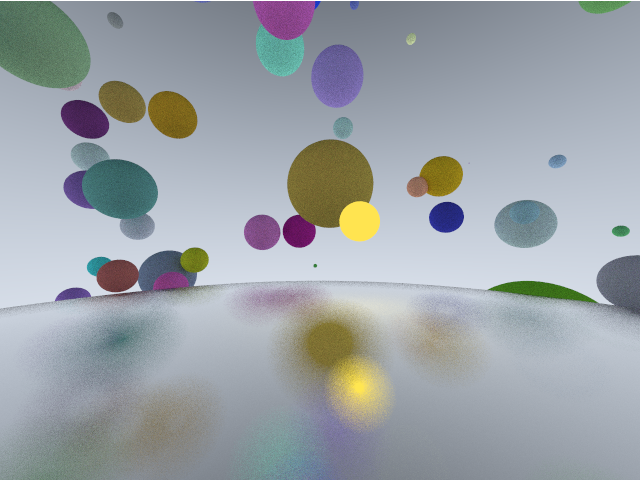
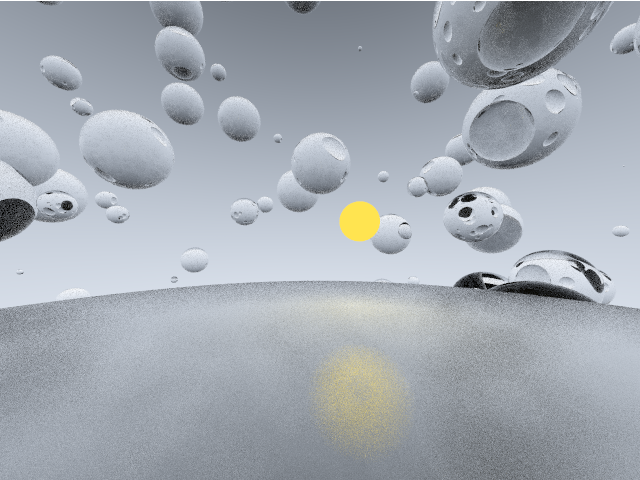
refractive mats

diff --git a/core/refractive_material.go b/core/refractive_material.go
@@ -1,0 +1,44 @@
+package core
+
+import (
+	"math"
+	"math/rand"
+)
+
+type RefractiveMaterial struct {
+	RefractiveIndex float64
+}
+
+func (mat *RefractiveMaterial) Scatter(rayIn *Ray, hitRecord *HitRecord, attenuation *Col3, scatteredRay *Ray) bool {
+
+	ri := mat.RefractiveIndex
+	if hitRecord.FrontFacing {
+		ri = 1.0 / ri
+	}
+	normalizedInputVector := Normalize(rayIn.Direction)
+
+	cos_theta := math.Min(Dot(normalizedInputVector.Negate(), hitRecord.Normal), 1.0)
+	sin_theta := math.Sqrt(1.0 - cos_theta*cos_theta)
+
+	cannot_refract := ri*sin_theta > 1.0
+
+	finalDirection := Vec3{}
+	if cannot_refract || (reflectance(cos_theta, ri) > rand.Float64()) {
+		//must reflect
+		finalDirection = Reflect(&normalizedInputVector, &hitRecord.Normal)
+	} else {
+		//refract
+		finalDirection = Refract(&normalizedInputVector, &hitRecord.Normal, ri)
+	}
+
+	*scatteredRay = NewRay(hitRecord.Hitpoint, finalDirection)
+	*attenuation = Col3{1, 1, 1}
+	return true
+}
+
+func reflectance(cos float64, refIndex float64) float64 {
+	//Schlick's approximation
+	r0 := (1 - refIndex) / (1 + refIndex)
+	r0 = r0 * r0
+	return r0 + (1-r0)*math.Pow((1-cos), 5)
+}

diff --git a/rtCLI/main.go b/rtCLI/main.go
@@ -149,18 +149,19 @@ func main() {
 	fmt.Println("creating a scene with some spheres")
 
 	scene := []core.Hittable{&core.Sphere{core.Vec3{1, .5, -6}, 0.5, &core.DiffuseLightMaterial{core.Col3{1, .8, .1}}},
-		&core.Sphere{core.Vec3{0, -101.5, -1}, 100, &core.MetalMaterial{core.Col3{1, 1, 1}, .1}}}
+		&core.Sphere{core.Vec3{0, -101.5, -1}, 100, &core.MetalMaterial{core.Col3{1, 1, 1}, .2}},
+	}
 
 	for i := 0; i < 300; i++ {
 		newSphere := core.Sphere{core.Vec3{rand.Float64()*100.0 - 50, rand.Float64()*100.0 - 50, rand.Float64()*100.0 - 50}, rand.Float64() * 5.0,
-			&core.DiffuseMaterial{core.RandomVectorByRange(0, 1)}}
+			&core.RefractiveMaterial{1.5}}
 		scene = append(scene, &newSphere)
 	}
 
 	fmt.Println("creating camera and image")
 	const imageWidth int = 640
 	const imageHeight int = 480
-	const samplesPerPixel = 64
+	const samplesPerPixel = 32
 	const maxDepth = 5
 	img := image.NewRGBA(image.Rect(0, 0, imageWidth, imageHeight))
 	cam := core.NewCamera(2, 2.66666666667, 1, core.NewVector3(0, 0, 0))

diff --git a/core/vector.go b/core/vector.go
@@ -150,6 +150,15 @@ func Reflect(v *Vec3, n *Vec3) Vec3 {
 	return v.Subtract(n.Scale(2 * Dot(*v, *n)))
 }
 
+//TODO research the proof of this
+func Refract(unitVectorIn *Vec3, normal *Vec3, refractionRatio float64) Vec3 {
+	cos_theta := math.Min(Dot(unitVectorIn.Negate(), *normal), 1.0)
+	//relative to normal.
+	refractedRayOutPerpendicularComponents := (unitVectorIn.Add(normal.Scale(cos_theta))).Scale(refractionRatio)
+	refractedRayOutParallelComponents := normal.Scale(-math.Sqrt(math.Abs(1.0 - refractedRayOutPerpendicularComponents.LengthSquared())))
+	return refractedRayOutParallelComponents.Add(refractedRayOutPerpendicularComponents)
+}
+
 func Test() {
 	println("inside core package")
 }
